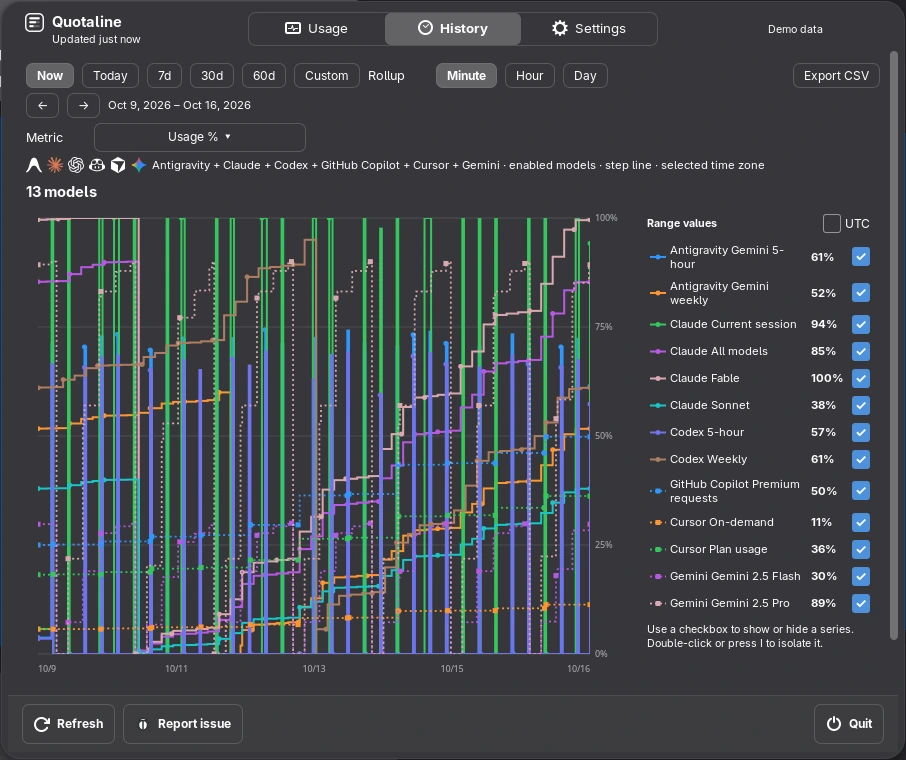
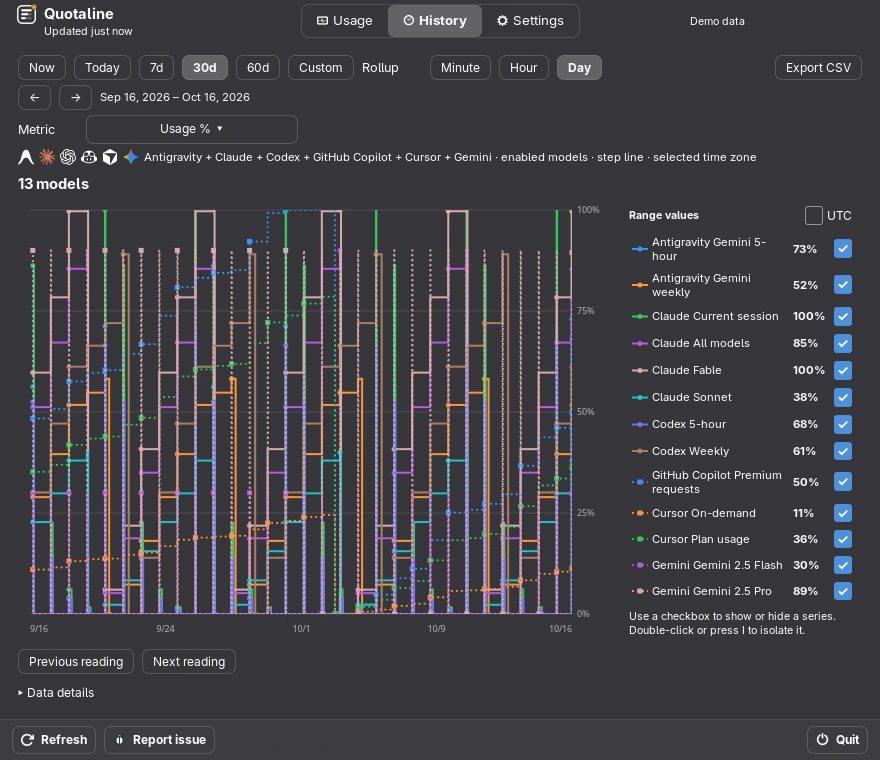
fix: align desktop capture geometry
Match GNOME and macOS panel widths, tab sizing, and demo capture
selection. Preserve source order when macOS chooses Antigravity
windows so both frontends show the same defaults.

Capture native panels at their exact bounds and keep History controls
visible above the footer. Refresh the website images and document the
remaining platform chrome differences.

diff --git a/gnome/extension/stylesheet.css b/gnome/extension/stylesheet.css
@@ -1,13 +1,13 @@
-.tmb-panel-cells { spacing: 7px; background-color: #303034; border-radius: 6px; }
+.tmb-panel-cells { spacing: 4px; background-color: #303034; border-radius: 6px; }
 .tmb-light .tmb-panel-cells { background-color: #e3e3e8; }
 .tmb-panel-cell { spacing: 0; padding: 1px 1px; }
 .tmb-panel-separator { width: 1px; height: 20px; background-color: #a4a4ac; }
 .tmb-light .tmb-panel-separator { background-color: #55555c; }
 .tmb-panel-cell-stacked { spacing: 0; }
-.tmb-panel-line { font-size: 0.9em; text-align: center; }
+.tmb-panel-line { font-size: 8pt; text-align: center; }
 .tmb-panel-inline { font-size: 8pt; }
 .tmb-panel-value { font-weight: bold; }
-.tmb-panel-cell-stacked .tmb-panel-value { font-size: 1.04em; }
+.tmb-panel-cell-stacked .tmb-panel-value { font-size: 10pt; }
 .tmb-panel-label { font-size: 9pt; padding-left: 4px; }
 .tmb-panel-mini { spacing: 4px; }
 .tmb-panel-mini-rows { spacing: 0; }
@@ -46,8 +46,8 @@
 .tmb-header-heading { spacing: 1px; }
 .tmb-header-updated, .tmb-header-activity { font-size: 8pt; opacity: 0.68; }
 .tmb-tabs { spacing: 0; border: 1px solid rgba(128,128,128,0.38); border-radius: 8px; }
-.tmb-tab { min-width: 100px; padding: 3px 18px; font-size: 10pt; text-align: center; }
-.tmb-tab-content { spacing: 7px; }
+.tmb-tab { min-width: 0; padding: 3px 15px; font-size: 10pt; text-align: center; }
+.tmb-tab-content { spacing: 5px; }
 .tmb-tab:hover { background-color: rgba(128,128,128,0.16); }
 .tmb-tab-selected, .tmb-tab-selected:hover { background-color: rgba(160,160,160,0.42); color: white; font-weight: bold; border-radius: 6px; }
 .tmb-light .tmb-tab-selected, .tmb-light .tmb-tab-selected:hover { color: #222; }
@@ -75,7 +75,7 @@
 .tmb-card-title { font-size: 10.5pt; font-weight: bold; }
 .tmb-chip { padding: 3px 9px; background-color: rgba(128,128,128,0.22); border-radius: 7px; font-size: 8.5pt; }
 .tmb-chip-action:hover, .tmb-chip-action:focus { background-color: rgba(128,128,128,0.32); }
-.tmb-icon-button { min-width: 28px; min-height: 28px; padding: 3px 6px; border: 1px solid rgba(128,128,128,0.42); border-radius: 7px; text-align: center; }
+.tmb-icon-button { min-width: 14px; min-height: 14px; padding: 2px 3px; border: 1px solid rgba(128,128,128,0.42); border-radius: 7px; text-align: center; }
 .tmb-icon-button:hover { background-color: rgba(128,128,128,0.18); }
 .tmb-card-body { spacing: 1px; padding: 4px 11px 6px; }
 .tmb-provider-notice { spacing: 8px; padding: 7px 9px; margin: 5px 0 3px; border-radius: 7px; background-color: rgba(128,128,128,0.16); }
@@ -243,8 +243,8 @@
 .tmb-legend-check-on { background-color: #4d91db; border-color: #4d91db; color: white; }
 .tmb-legend-off { opacity: 0.44; }
 .tmb-history-legend-help { padding-top: 4px; font-size: 8pt; opacity: 0.72; }
-.tmb-footer { spacing: 8px; padding: 8px 14px; border-top: 1px solid rgba(128,128,128,0.20); background-color: rgba(128,128,128,0.08); }
+.tmb-footer { spacing: 8px; padding: 6px 12px; border-top: 1px solid rgba(128,128,128,0.20); background-color: rgba(128,128,128,0.08); }
 .tmb-footer-group { spacing: 8px; }
-.tmb-footer-action { min-height: 28px; padding: 5px 11px; font-weight: bold; }
+.tmb-footer-action { min-height: 20px; padding: 3px 8px; font-weight: bold; }
 .tmb-link { padding: 3px 5px; font-size: 9pt; opacity: 0.78; }
 .tmb-link:hover { opacity: 1; }

diff --git a/gnome/extension/tests/integration/shell-smoke/history.ts b/gnome/extension/tests/integration/shell-smoke/history.ts
@@ -78,7 +78,56 @@ export async function run({
             'History did not restore an enabled provider',
         );
     }
+    const {history_days: originalDays, history_rollup: originalRollup} = serviceSettings();
+    const followedNow = instance(
+        required(findActor(root, actor => buttonLabel(actor) === 'Now')),
+        St.Widget,
+    ).has_style_class_name('tmb-tab-selected');
+    required(findActor(root, actor => buttonLabel(actor) === '30d')).emit('clicked', 1);
+    await waitOrFail(
+        () =>
+            findActor(
+                root,
+                actor =>
+                    buttonLabel(actor) === '30d' && instance(actor, St.Widget).has_style_class_name('tmb-tab-selected'),
+            ) && findActor(root, actor => actor.has_style_class_name?.('tmb-chart')),
+        'Thirty-day History capture did not load',
+    );
+    required(findActor(root, actor => buttonLabel(actor) === 'Day')).emit('clicked', 1);
+    await waitOrFail(
+        () =>
+            findActor(
+                root,
+                actor =>
+                    buttonLabel(actor) === 'Day' && instance(actor, St.Widget).has_style_class_name('tmb-tab-selected'),
+            ) && findActor(root, actor => actor.has_style_class_name?.('tmb-chart')),
+        'Daily History capture did not load',
+    );
     await capture('history');
+    const originalPeriodLabel = followedNow ? 'Now' : originalDays === 1 ? 'Today' : `${originalDays}d`;
+    required(findActor(root, actor => buttonLabel(actor) === originalPeriodLabel)).emit('clicked', 1);
+    await waitOrFail(
+        () =>
+            findActor(
+                root,
+                actor =>
+                    buttonLabel(actor) === originalPeriodLabel &&
+                    instance(actor, St.Widget).has_style_class_name('tmb-tab-selected'),
+            ),
+        'History period was not restored',
+    );
+    if (followedNow) await setSetting('history_days', originalDays);
+    const originalRollupLabel = originalRollup.charAt(0).toUpperCase() + originalRollup.slice(1);
+    required(findActor(root, actor => buttonLabel(actor) === originalRollupLabel)).emit('clicked', 1);
+    await waitOrFail(() => serviceSettings().history_rollup === originalRollup, 'History rollup was not restored');
+    if (root.width > 880) throw new Error(`History menu exceeds 880px: ${root.width}`);
+    const nextReading = required(
+        findActor(contentOf(root.get_children()[1]), actor => buttonLabel(actor) === 'Next reading'),
+    );
+    const [, nextY] = nextReading.get_transformed_position();
+    const [, scrollY] = required(root.get_children()[1]).get_transformed_position();
+    if (nextY + nextReading.height > scrollY + required(root.get_children()[1]).height)
+        throw new Error('History reading controls are clipped by the footer');
     if (GLib.getenv('TMB_EXPECT_DEMO') === '1') {
         indicator.menu.close(false);
         openWithFastClock();

diff --git a/gnome/extension/tests/integration/shell-smoke/usage.ts b/gnome/extension/tests/integration/shell-smoke/usage.ts
@@ -9,6 +9,7 @@ import type {SmokeContext} from './helpers.js';
 import {
     afterPaint,
     capture,
+    captureStatus,
     changedAfter,
     containsText,
     copiedTextAfter,
@@ -125,6 +126,24 @@ export async function run({
                 })}`,
             );
         await capture('menubar-stacked');
+        const comparisonKeys = [
+            'claude:session',
+            'claude:weekly',
+            'claude:weekly:fable',
+            'claude:weekly:sonnet',
+            'codex:session',
+            'codex:weekly',
+        ];
+        await setSetting('selected_windows', comparisonKeys);
+        await setSetting('order', 'stable');
+        await waitOrFail(
+            () =>
+                serviceState()
+                    .cells.map(cell => cell.id)
+                    .join() === comparisonKeys.join(),
+            'Comparison status cells changed order',
+        );
+        await captureStatus('menubar-comparison');
         await setSetting('selected_windows', ['claude:weekly', 'codex:session']);
         await waitOrFail(
             () => statusCells().length === 2,
@@ -142,11 +161,21 @@ export async function run({
             return (
                 content.get_children().length !== 2 ||
                 !instance(required(content.get_children()[0]), St.Icon).get_icon_name() ||
+                instance(required(content.get_children()[0]), St.Icon).icon_size !== 11 ||
                 required(content.get_children()[1]).text !== tab.accessible_name
             );
         })
     )
         throw new Error('Expected labeled Usage, History, and Settings tabs with icons');
+    const tabStrip = required(required(tabs[0]).get_parent());
+    const [tabX] = tabStrip.get_transformed_position();
+    const [rootX] = root.get_transformed_position();
+    if (
+        tabStrip.width < 265 ||
+        tabStrip.width > 285 ||
+        Math.abs(tabX + tabStrip.width / 2 - rootX - root.width / 2) > 2
+    )
+        throw new Error(`Tab strip is oversized or off-center: ${tabStrip.width}px at ${tabX - rootX}px`);
     if (GLib.getenv('TMB_EXPECT_DEMO') === '1') {
         await waitOrFail(
             () => containsText(contentOf(root.get_children()[1]), 'API-EQUIVALENT ESTIMATES'),

diff --git a/gnome/extension/tests/integration/shell-smoke/helpers.ts b/gnome/extension/tests/integration/shell-smoke/helpers.ts
@@ -188,10 +188,10 @@ export async function capture(name: string) {
           : null;
     if (!root) return;
     const [left, top] = root.get_transformed_position();
-    const x = Math.max(0, Math.floor(left) - 8);
-    const y = Math.max(0, Math.floor(top) - 8);
-    const width = Math.min(global.stage.width - x, Math.ceil(root.width) + 16);
-    const height = Math.min(global.stage.height - y, Math.ceil(root.height) + 16);
+    const x = Math.max(0, Math.floor(left));
+    const y = Math.max(0, Math.floor(top));
+    const width = Math.min(global.stage.width - x, Math.ceil(root.width));
+    const height = Math.min(global.stage.height - y, Math.ceil(root.height));
     const menuStream = Gio.File.new_for_path(GLib.build_filenamev([directory, `${name}-menu.png`])).replace(
         null,
         false,
@@ -208,6 +208,38 @@ export async function capture(name: string) {
                 reject(failure(error));
             }
         });
+    });
+}
+
+export async function captureStatus(name: string) {
+    const directory = GLib.getenv('TMB_SCREENSHOT_DIR');
+    if (!directory) return;
+    GLib.mkdir_with_parents(directory, 0o755);
+    const indicator = required(getIndicator());
+    const [indicatorX] = indicator.get_transformed_position();
+    const stream = Gio.File.new_for_path(GLib.build_filenamev([directory, `${name}.png`])).replace(
+        null,
+        false,
+        Gio.FileCreateFlags.REPLACE_DESTINATION,
+        null,
+    );
+    await new Promise<void>((resolve, reject) => {
+        new Shell.Screenshot().screenshot_area(
+            Math.max(0, Math.round(indicatorX + indicator.width - 520)),
+            0,
+            520,
+            32,
+            stream,
+            (source, result) => {
+                try {
+                    required(source).screenshot_area_finish(result);
+                    stream.close(null);
+                    resolve();
+                } catch (error) {
+                    reject(failure(error));
+                }
+            },
+        );
     });
 }
 

diff --git a/gnome/extension/src/panel.ts b/gnome/extension/src/panel.ts
@@ -454,7 +454,7 @@ export class TokenPanel {
             'tmb-control tmb-footer-action',
         );
         const refreshContent = box(false, 'tmb-footer-action-content');
-        refreshContent.add_child(new St.Icon({icon_name: 'view-refresh-symbolic', icon_size: 16}));
+        refreshContent.add_child(new St.Icon({icon_name: 'view-refresh-symbolic', icon_size: 13}));
         refreshContent.add_child(label('Refresh'));
         refresh.set_child(refreshContent);
         this._tooltip.attach(
@@ -494,7 +494,7 @@ export class TokenPanel {
                         GLib.build_filenamev([this.path, 'icons', 'report-issue-symbolic.svg']),
                     ),
                 }),
-                icon_size: 16,
+                icon_size: 13,
             }),
         );
         reportContent.add_child(label('Report issue'));
@@ -540,7 +540,7 @@ export class TokenPanel {
             'tmb-control tmb-footer-action',
         );
         const quitContent = box(false, 'tmb-footer-action-content');
-        quitContent.add_child(new St.Icon({icon_name: 'system-shutdown-symbolic', icon_size: 16}));
+        quitContent.add_child(new St.Icon({icon_name: 'system-shutdown-symbolic', icon_size: 13}));
         quitContent.add_child(label('Quit'));
         this._footerQuit.set_child(quitContent);
         this._footerQuit.accessible_name = 'Quit';

diff --git a/gnome/extension/src/panel/usage.ts b/gnome/extension/src/panel/usage.ts
@@ -122,7 +122,7 @@ const methods = {
                 },
                 setup || signIn ? 'tmb-small-control' : 'tmb-icon-button',
             );
-            if (!setup && !signIn) action.set_child(new St.Icon({icon_name: 'view-refresh-symbolic', icon_size: 16}));
+            if (!setup && !signIn) action.set_child(new St.Icon({icon_name: 'view-refresh-symbolic', icon_size: 12}));
             action.accessible_name = `${
                 setup ? 'Set up' : signIn ? 'Sign in to' : retry ? 'Retry' : 'Refresh'
             } ${provider.name}`;
@@ -140,7 +140,7 @@ const methods = {
             top.add_child(action);
             if (signIn) {
                 const settingsAction = new St.Button({
-                    child: new St.Icon({icon_name: 'preferences-system-symbolic', icon_size: 16}),
+                    child: new St.Icon({icon_name: 'preferences-system-symbolic', icon_size: 12}),
                     style_class: 'tmb-icon-button',
                     can_focus: true,
                     reactive: true,

diff --git a/gnome/extension/src/panel/history-content.ts b/gnome/extension/src/panel/history-content.ts
@@ -170,10 +170,10 @@ export const historyContentMethods = {
             return Clutter.EVENT_PROPAGATE;
         });
         chart.add_action_full('tmb-history-arrows', Clutter.EventPhase.CAPTURE, keys);
-        const sideLegend = layoutWidth - 36 - 12 - 240 >= 600;
+        const sideLegend = layoutWidth - 36 - 12 - 240 >= 580;
         chart.width = Math.max(210, layoutWidth - (sideLegend ? 288 : veryNarrow ? 44 : 36));
         chart.x_align = Clutter.ActorAlign.START;
-        chart.height = Math.max(280, Math.min(480, this._panelMonitor().height - 350));
+        chart.height = Math.max(280, Math.min(440, this._panelMonitor().height - 390));
         const visual = box(!sideLegend, 'tmb-history-visual');
         visual.x_align = Clutter.ActorAlign.START;
         const plot = box(true, 'tmb-history-plot');

diff --git a/macos/tests/QuotalineCoreTests/StatusTemplateTests.swift b/macos/tests/QuotalineCoreTests/StatusTemplateTests.swift
@@ -77,6 +77,14 @@ private let fable = QuotaWindow(
   #expect(StatusItemBuilder.defaultSelection(odd).map(\.windowID) == ["a", "b"])
 }
 
+@Test func defaultSelectionKeepsAntigravitySourcePriority() {
+  let snapshot = DemoData.snapshot(.antigravity, now: fixedNow)
+  #expect(Array(snapshot.windows.map(\.id).prefix(2)) == ["3p:session", "gemini:session"])
+  #expect(
+    StatusItemBuilder.defaultSelection([.antigravity: snapshot]).map(\.storageKey)
+      == ["antigravity:gemini:session", "antigravity:gemini:weekly"])
+}
+
 private func input(
   format: StatusFormat = .stacked, selected: [WindowKey]? = nil, hideZero: Bool = true, order: WindowOrder = .provider,
   availability: [ProviderID: QuotaAvailability] = [.claude: .current, .codex: .current],

diff --git a/gnome/extension/src/panel/display.ts b/gnome/extension/src/panel/display.ts
@@ -161,7 +161,7 @@ export const displayMethods = {
                             History: 'document-open-recent-symbolic',
                             Settings: 'emblem-system-symbolic',
                         }[tab],
-                        icon_size: 16,
+                        icon_size: 11,
                     }),
                 );
                 content.add_child(label(tab));
@@ -210,7 +210,7 @@ export const displayMethods = {
     },
 
     _menuWidth(this: TokenPanel, monitor: PanelMonitor): number {
-        return menuWidth(monitor.width, this._tab === 'History' ? 890 : 880);
+        return menuWidth(monitor.width, 880);
     },
 
     _alignMenu(this: TokenPanel, monitor: PanelMonitor, width: number): void {

diff --git a/gnome/extension/tests/integration/panel-alignment.test.ts b/gnome/extension/tests/integration/panel-alignment.test.ts
@@ -171,9 +171,9 @@ async function runScenario() {
                     const chart = findActor(root, actor => actor.has_style_class_name?.('tmb-chart'));
                     const legend = findActor(root, actor => actor.has_style_class_name?.('tmb-history-legend'));
                     return (
-                        root.width >= 888 &&
+                        root.width >= 875 &&
                         chart?.has_allocation() &&
-                        chart.width >= 600 &&
+                        chart.width >= 580 &&
                         legend?.has_allocation() &&
                         legend.get_transformed_position()[0] >= chart.get_transformed_position()[0] + chart.width
                     );

diff --git a/macos/src/QuotalineCore/StatusBar/StatusItemModel.swift b/macos/src/QuotalineCore/StatusBar/StatusItemModel.swift
@@ -131,7 +131,7 @@ public enum StatusItemBuilder {
     let providers = snapshots.keys.sorted().map { provider in
       SelectionProvider(
         id: provider.rawValue,
-        windows: snapshots[provider]!.windows.map { SelectionWindow(id: $0.id, isActive: $0.isActive) })
+        windows: snapshots[provider]!.record.windows.map { SelectionWindow(id: $0.id, isActive: $0.active) })
     }
     return QuotalineRust.defaultWindowSelection(providers: providers).map { selected in
       WindowKey(provider: ProviderID(rawValue: selected.provider)!, windowID: selected.windowId)

diff --git a/website/content/contributing/screenshots.md b/website/content/contributing/screenshots.md
@@ -45,6 +45,13 @@ several scroll positions, menu bar formats, Quick Settings sizes and narrow moni
 `-menu.png` crops for comparison with macOS. The website's GNOME images come from these unscaled menu crops; review the
 raw output before converting it to WebP.
 
+The three menu crops are 880 × 760 logical pixels on both platforms. macOS exports at 2× (1760 × 1520 pixels); GNOME
+Shell captures at 1× (880 × 760 pixels). The status strips are 520 logical pixels wide. macOS draws a 28-pixel menu bar
+at 3×; GNOME Shell captures its 32-pixel top bar at 1×. Compare them at logical size, not at raw pixel size. The
+`menubar-comparison.png` capture selects Claude session, weekly, Fable and Sonnet, then Codex session and weekly, in
+provider order, matching the macOS export. Both History captures use 30 days with daily buckets. Usage percentages and
+reset times depend on the capture clock.
+
 Use the filename to find a specific state:
 
 | Prefix or example                                                                     | What it shows                                                     |
